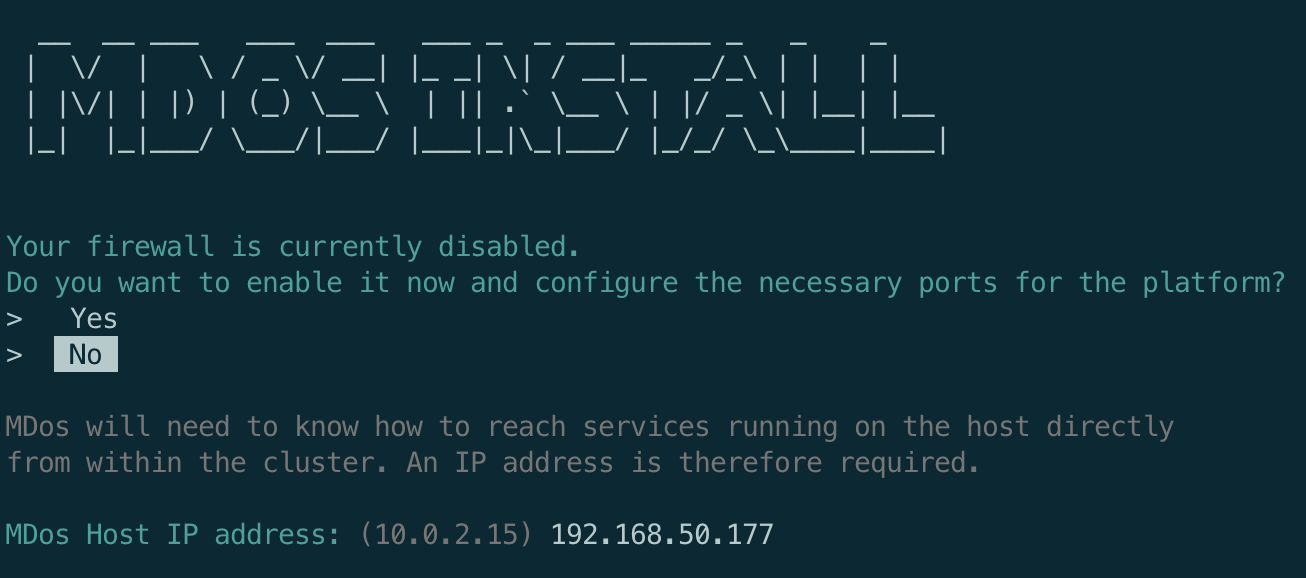
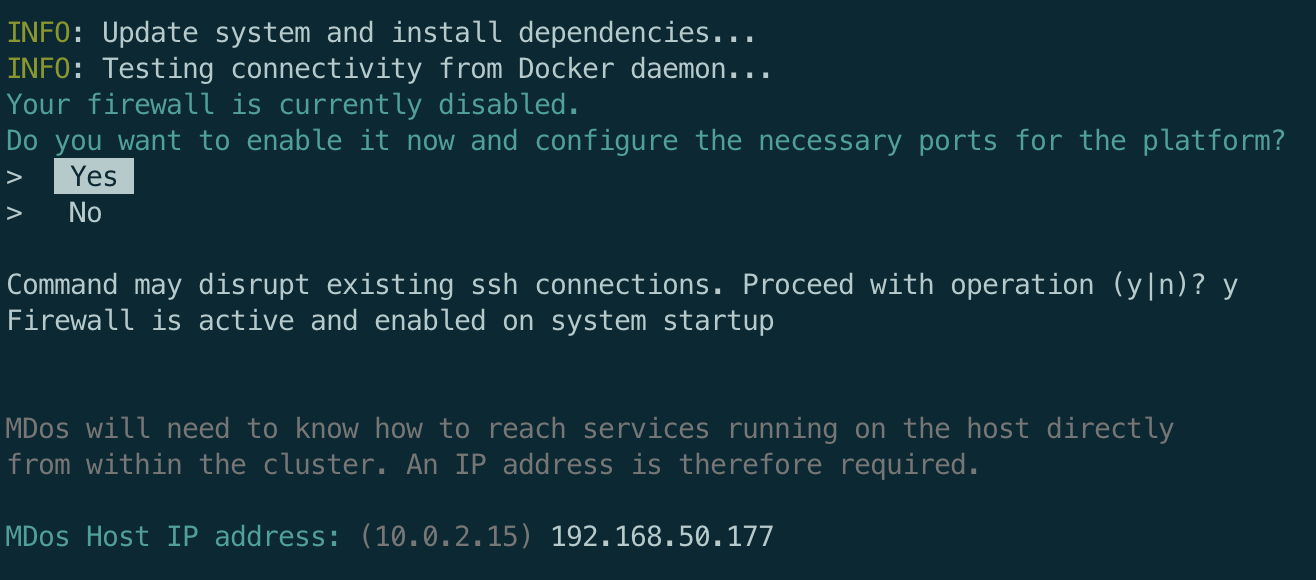
more details

diff --git a/mdos-docs/infra/mkdocs/docs/installation.md b/mdos-docs/infra/mkdocs/docs/installation.md
@@ -10,8 +10,8 @@ hide:
 
 !!! info
 
-    At the moment, the MDos platform has been tested on `Ubuntu >= 20.04`, `CentOS >= 8` and `Debian >= buster`.
-    The MDos CLI is available for Max, linux and Windows
+    At the moment, the MDos platform has been tested on `Ubuntu >= 20.04`, `CentOS >= 8` and `Debian >= buster`  
+    The MDos CLI is available for `MacOS`, `linux` and `Windows`
 
 First, clone this repo on your target machine:
 
@@ -33,9 +33,34 @@ Install the platform by calling the following script as root:
 sudo ./mdos-setup/install.sh
 ```
 
+The MDos platform has a few dependencies, you will need to consent so that the script is allowed to install and configure those dependencies:
+
+<img src="/mdos/img/installation/dependencies.png" alt="ip" width="500"/>
+
 During the installation procedure, you will be asked to provide a few details. You will have to start by providing your MDos platform host IP address. Then select if you would like to automatically configure the host firewall in order to allow the required traffic policies for MDos.
 
 <img src="/mdos/img/installation/ip.png" alt="ip" width="600"/>
+
+!!! note
+
+    If you choose to not let the script configure your firewall, the configure the following firewall rules to allow the platform to run:
+
+    * 443/tcp
+    * 6443/tcp
+    * 30999/tcp
+    * 3915/tcp
+    * 3916/tcp
+    * 3917/tcp
+    * 3918/tcp
+    * 3919/tcp
+    * 3920/tcp
+    * 179/tcp
+    * 4789/udp
+    * 2379/tcp
+    * 2380/tcp
+    * 10250/tcp
+    * 10259/tcp
+    * 10257/tcp
 
 #### :material-arrow-right-thin: Administrator credentials 
 
@@ -203,6 +228,15 @@ INFO: Cleaning up...
 Log details of the installation can be found here: /root/11_11_2022_10_29_37_mdos_install.log
 INFO: Done!
 ```
+
+!!! note
+
+    If you choose to not let the script configure your firewall, the configure the following firewall rules to allow the platform to run:
+
+    * 443/tcp
+    * 6443/tcp
+    * 30999/tcp
+    * 10250/tcp
 
 ---
 

diff --git a/mdos-docs/infra/mkdocs/docs/index.md b/mdos-docs/infra/mkdocs/docs/index.md
@@ -12,8 +12,12 @@ MDos is a Kubernetes based application runtime platform, it's aim is to greatly 
   ![Overview](/mdos/img/overview.png)
 </figure>
 
-!!! warning
-    MDos is in beta stage at the moment, it is under developement and should not be used in production yet. Before investing more sweat and tears into this, I want to make sure that there is interest from the comunity first. Please test it, provide some feedback, or even better, join the party in developing it further. 
+!!! warning "Disclaimer"
+    MDos is in beta stage at the moment, it is under developement and should not be used in production yet. Before investing more sweat and tears into this, I want to make sure that there is interest from the comunity first.  
+    
+    __Please test it, provide some feedback, or even better, join the party in developing it further.__
+
+    If you encounter some miss-behaviour, or if you believe something needs to be adapted, create an issue on the [mdos git repo](https://github.com/mdundek/mdos) and I will come back to you shortly.
 
 This documentation is for the `MDos` platform Git repository available [here](https://github.com/mdundek/mdos)
 

diff --git a/README.md b/README.md
@@ -9,7 +9,11 @@ MDos is a Kubernetes based application runtime platform, it's aim is to greatly 
 ---
 
 > **Warning**
-> MDos is in under developement at the moment, it should not be used in production yet. Before investing more sweat and tears into this, I want to make sure that there is interest from the comunity first. Please test it, provide some feedback, or even better, join the party in developing it further. 
+> MDos is in under developement at the moment, it should not be used in production yet. Before investing more sweat and tears into this, I want to make sure that there is interest from the comunity first.  
+> 
+> __Please test it, provide some feedback, or even better, join the party in developing it further.__  
+>
+> If you encounter some miss-behaviour, or if you believe something needs to be adapted, create an issue and I will come back to you shortly.
 
 ## In a Nutshell
 
